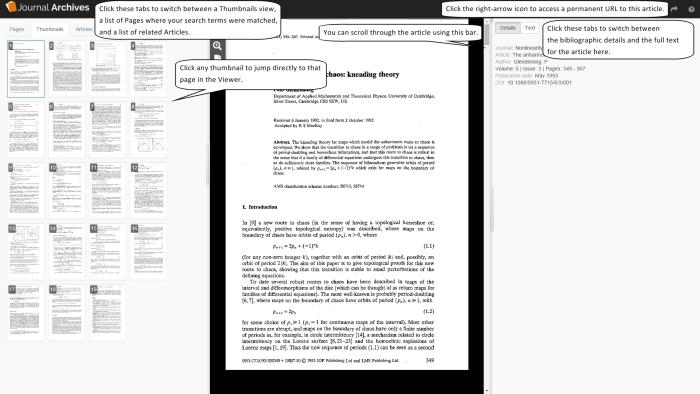
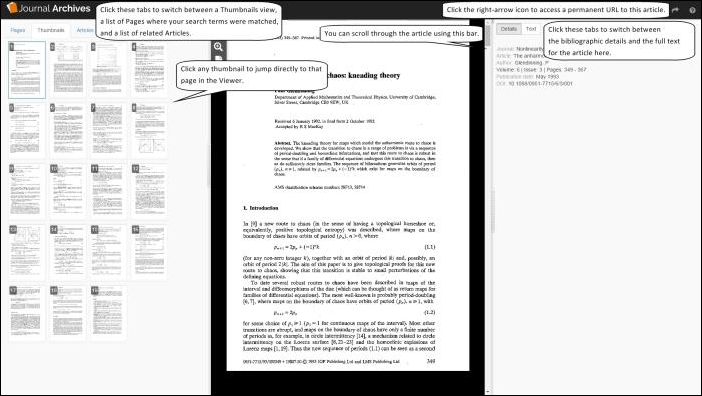
JA support home screenshots and html update

diff --git a/brands/default/support/support.html b/brands/default/support/support.html
@@ -47,7 +47,7 @@ We've also made a version in the PDF format, that you can download for offline w
 
 <p>An introduction to Journal Archives presentation is available as a <a href="https://journalarchives.jisc.ac.uk/files/Introduction-to-Journal-Archives-Feb2016.pptx" target="_self" title="Introduction to Journal Archives presentation"><b> PPT</b> &#40;5.7MB&#41;</a> or a <a href="https://journalarchives.jisc.ac.uk/files/Introduction-to-Journal-Archives-presentation-Feb2016.pdf" target="_self" title="Introduction to Journal Archives presentation PDF"><b> PDF</b> &#40;3MB&#41;</a> .</p>
 
-<img src="../images/support/screenshots/JA-PPT-700px.png" width="700" height="525" alt="Cover image for the Introduction to Journal Archives presentation screenshot"/></div>
+<img src="../images/support/screenshots/JA-PPT-700px.jpg" width="700" height="525" alt="Cover image for the Introduction to Journal Archives presentation screenshot"/></div>
     </div>
  </div>
 
